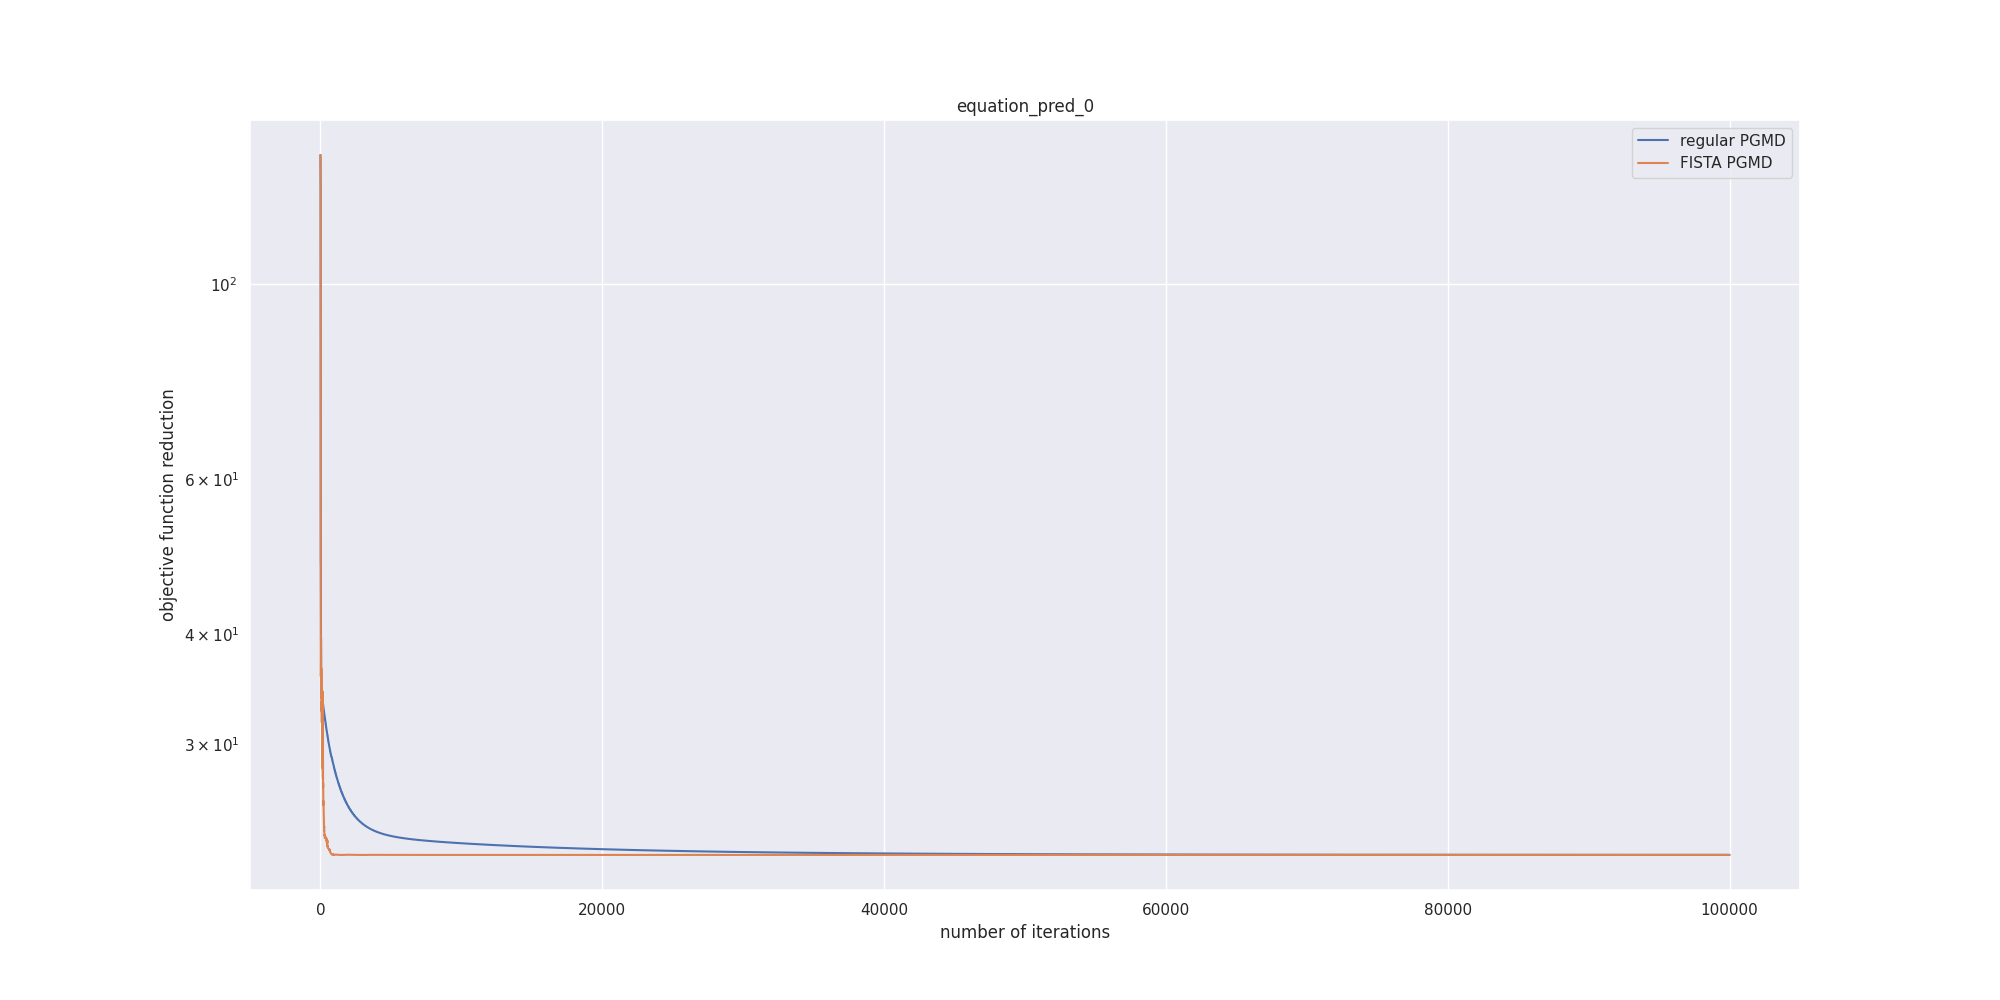
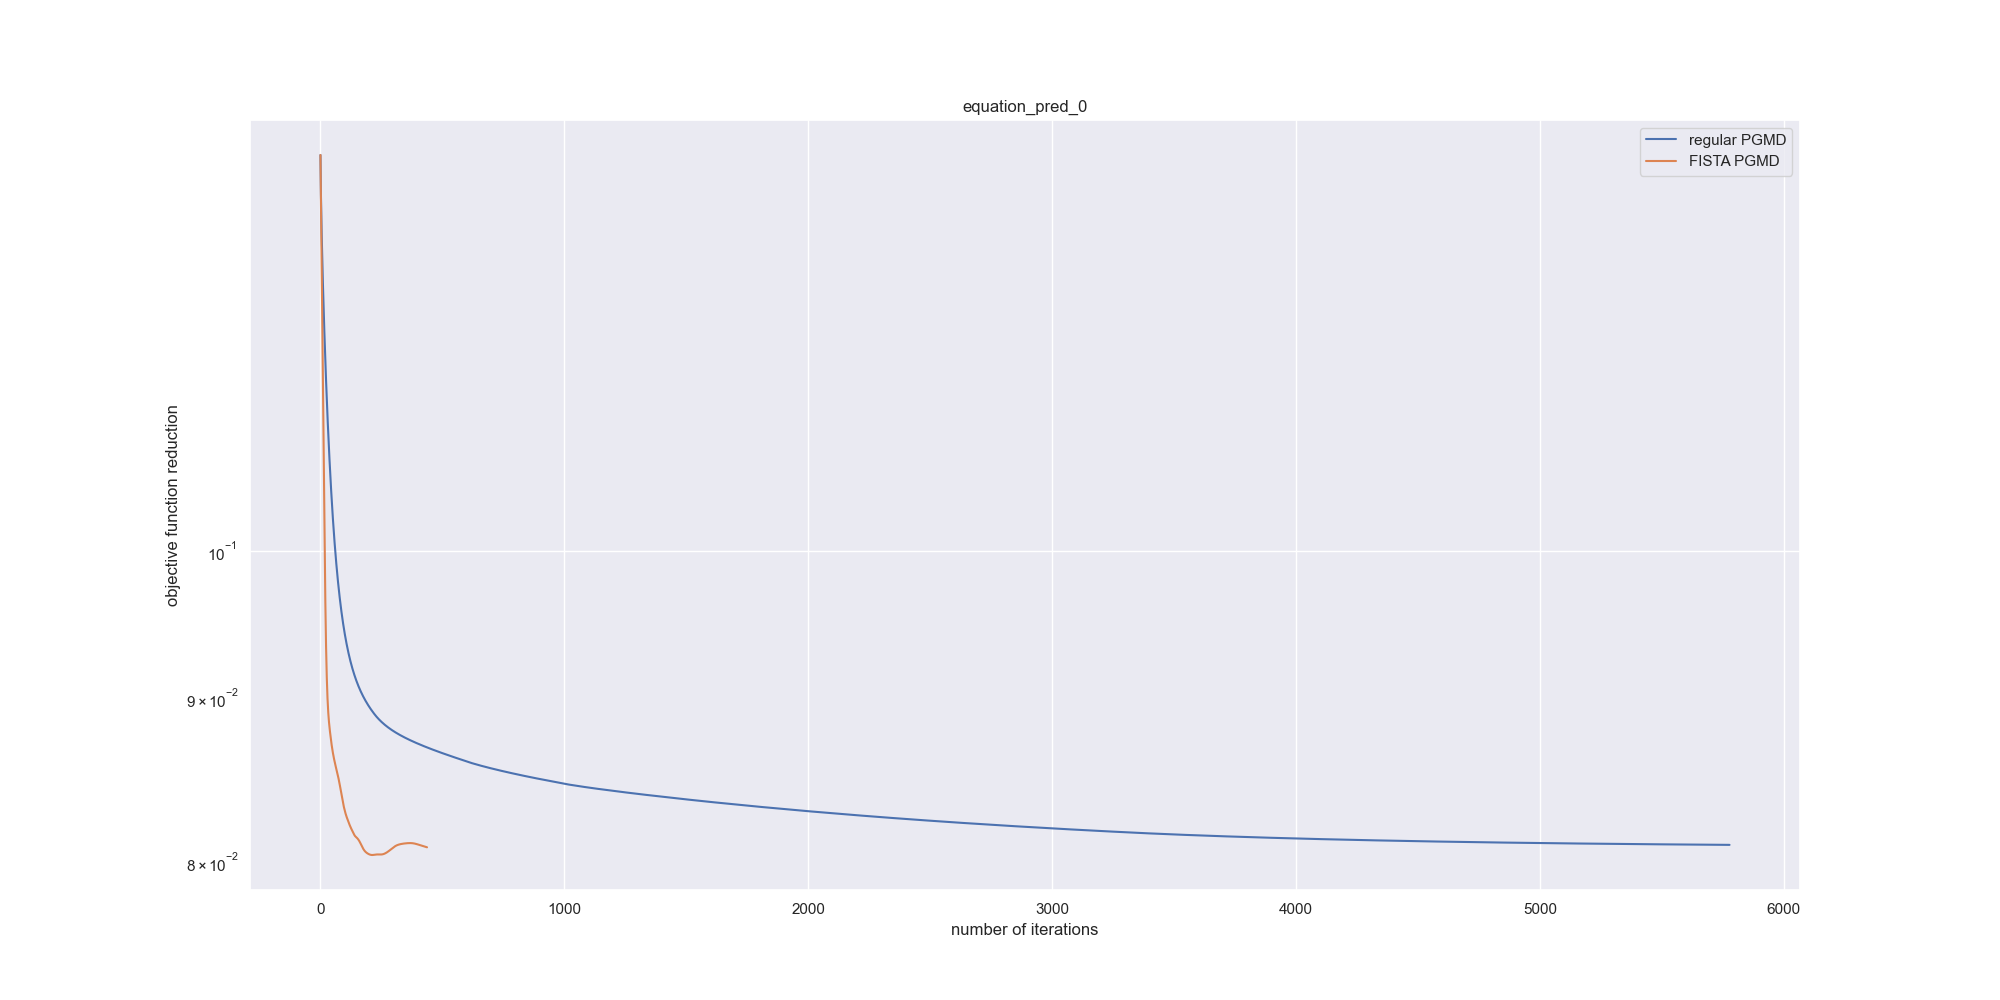
finished

diff --git a/main.py b/main.py
@@ -1,6 +1,7 @@
 # from BFGS import BFGS
 # from CG import CG
 from PGM import PGM_solver
+import pandas as pd
 from system import system_creator
 import numpy as np
 from mpl_toolkits import mplot3d
@@ -10,6 +11,11 @@ import seaborn as sns
 import time
 
 from scipy.integrate import solve_ivp
+
+
+def addlabels(x,y):
+    for i in range(len(x)):
+        plt.text(i,y[i],y[i])
 
 
 def f(A,x,b):
@@ -34,7 +40,7 @@ def lorentz_system(t,alpha,sigma,rho,beta):
     
 def main():
 
-    n_points =[100]
+    n_points =[100,200,500]
     hertz = 10
     for points in n_points:
         
@@ -49,9 +55,6 @@ def main():
         states=sol.y.T
         diff = np.zeros((states.shape))
         diff[1:,:] = np.diff(states,axis=0)/(1/hertz)        
-        # states,diff = lorentz_system(sigma,rho,beta,points)
-        #states,states_norm = normalize(states,return_norm=True)
-        # diff = np.nan_to_num(diff,nan=0,posinf=0,neginf=0)
         diff,diff_norm = normalize(diff,return_norm=True)
         
         
@@ -64,9 +67,12 @@ def main():
         
         #set parameters
         initial_guess = np.zeros((sys.lib.shape[1],states.shape[1]))
+        A2 = 2*np.matmul(sys.lib.T,sys.lib)/len(initial_guess)
+        A2 = np.nan_to_num(A2,nan=0,posinf=0,neginf=0)
+        lip=np.real((np.max(np.linalg.eig(A2)[0])))
         rho = 0.5
         lamb = 5e-3
-        maxiter = 1e5
+        maxiter = 1e4
         epsilon = 1e-4
 
         #create storage
@@ -75,34 +81,36 @@ def main():
         time_per_step = {"reg":{},"fista":{}}
         active_columns = {"reg":{},"fista":{}}
         opt_gap = {"reg":{},"fista":{}}
-        
+        indexes = np.arange(len(labels))+0.3
         sns.set()
         for col in range(3):
             pgm = PGM_solver(sys,initial_guess[:,col],diff[:,col])
-            solution['reg'][col] ,obj_func['reg'][col],time_per_step['reg'][col],active_columns['reg'][col],opt_gap['reg'][col]=pgm.PGMD(f,grad_f,g_prox,lamb,rho,maxiter,epsilon)
+            solution['reg'][col] ,obj_func['reg'][col],time_per_step['reg'][col],active_columns['reg'][col],opt_gap['reg'][col]=pgm.PGMD(f,grad_f,g_prox,lamb,rho,lip,maxiter,epsilon)
             print(solution['reg'][col])
             sparse_index = (np.nonzero(solution['reg'][col]))[0]
             for index in sparse_index:
                 print("sparse representation for equation %d found by PGMB :%s " %(col,labels[index]))
-            plt.figure()
-            plt.plot(sys.lib@solution['reg'][col],'o')
-            plt.plot(diff[:,col],'x')
-            plt.legend(["prediction","real"])
-            plt.show()
             print("average time per step by PGMD ",np.mean(time_per_step["reg"][col]))
             print("MSE found by PGMB :",obj_func['reg'][col][-1])
-            solution['fista'][col] ,obj_func['fista'][col],time_per_step['fista'][col],active_columns['fista'][col],opt_gap['fista'][col]=pgm.PGMD_FISTA(f,grad_f,g_prox,lamb,rho,maxiter,epsilon)
+            solution['fista'][col] ,obj_func['fista'][col],time_per_step['fista'][col],active_columns['fista'][col],opt_gap['fista'][col]=pgm.PGMD_FISTA(f,grad_f,g_prox,lamb,rho,lip,maxiter,epsilon)
             print(solution['fista'][col])
             sparse_index = (np.nonzero(solution['fista'][col]))[0]
             for index in sparse_index:
                 print("sparse representation for equation %d found by PGMB FISTA:%s " %(col,labels[index]))
             print("average time per step by PGMD FISTA",np.mean(time_per_step["fista"][col]))
             print("MSE found by PGMB FISTA:",obj_func['fista'][col][-1])
-            plt.figure()
-            plt.plot(sys.lib@solution['fista'][col],'o')
-            plt.plot(diff[:,col],'x')
-            plt.legend(["prediction","real"])
-            plt.show()
+            
+            plt.figure(figsize=(20,10))
+            plt.plot(np.multiply(sys.lib@solution['reg'][col],lib_norm[col]),'o')
+            plt.plot(np.multiply(sys.lib@solution['fista'][col],lib_norm[col]),'o')
+            plt.plot(np.multiply(diff[:,col],diff_norm[col]),'x')
+            
+            plt.ylabel("state_derivative_"+str(col))
+            plt.title("State %s Derivative Regression " %(str(col)))
+            plt.legend(["prediction PGMD","prediction FISTA","real"])
+            plt.savefig("states_"+str(col)+"_regression_"+str(points)+".png")
+            plt.close()
+            
             plt.figure(figsize=(20,10))
             plt.semilogy(obj_func['reg'][col])
             plt.semilogy(obj_func['fista'][col])
@@ -113,16 +121,21 @@ def main():
             plt.savefig("equation_pred_"+str(col)+str(points)+".png")
             plt.close()
 
-            plt.figure(figsize=(20,10))
-            active_columns['reg'][col]=[len(i) for i in active_columns['reg'][col]]
-            active_columns['reg'][col],bins=np.unique(active_columns['reg'][col],return_counts=True)
-            plt.bar(x=bins,height=active_columns['reg'][col])
-            active_columns['fista'][col]=[len(i) for i in active_columns['fista'][col]]
-            active_columns['fista'][col],bins=np.unique(active_columns['fista'][col],return_counts=True)
-            plt.bar(x=bins,height=active_columns['fista'][col])
+            df_reg = pd.DataFrame([labels,solution['reg'][col]]).T
+            df_reg.columns = ['label','value']
+            df_reg['solver']='pgmd'
+            df_reg.value = np.abs(df_reg.value)
+            lengths=np.arange(len(df_reg))
+            df_fista = pd.DataFrame([labels,solution['fista'][col]]).T
+            df_fista.columns =['label','value']
+            df_fista['solver']='pgmd-fista'
+            df_fista.value = np.abs(df_fista.value)
             
-            plt.ylabel('number of active terms')
-            plt.xlabel('number of iterations')
+            plt.figure(figsize=(20,10))
+            plt.bar(x=lengths,height=df_reg['value'],alpha=0.5,tick_label=df_reg['label'])
+            plt.bar(x=lengths,height=df_fista['value'],alpha=0.5,tick_label=df_reg['label'])
+            plt.ylabel('absolute value of active terms')
+            plt.xlabel('type of term')
             plt.title("equation_pred_"+str(col)+"active_terms")
             plt.legend(["regular PGMD","FISTA PGMD"])
             plt.savefig("active_terms_equation_pred_"+str(col)+str(points)+".png")

diff --git a/PGM.py b/PGM.py
@@ -15,29 +15,46 @@ class PGM_solver:
       gamma = 2/lip
       A=self.system.lib
       b=self.b
+      
       while np.linalg.norm(grad_f(A,g_prox(x-gamma*grad_f(A,x,b),lamb,gamma),b)-grad_f(A,x,b))>1/(2*gamma)*np.linalg.norm(g_prox(x-gamma*grad_f(A,x,b),lamb,gamma)-x):
          gamma = gamma*rho
          x = g_prox(x-gamma*grad_f(A,x,b),lamb,gamma)
          
       return gamma
+   
+   def backtracking_fista(self,x,grad_f,g_prox,lip,rho,lamb): 
+      
+      y = x
+      gamma = 2/lip
+      A=self.system.lib
+      b=self.b
+      xk_1 = x
+      tk_1 = 1
+      
+      while np.linalg.norm(grad_f(A,g_prox(y-gamma*grad_f(A,y,b),lamb,gamma),b)-grad_f(A,y,b))>1/(2*gamma)*np.linalg.norm(g_prox(y-gamma*grad_f(A,y,b),lamb,gamma)-y):
+         gamma = gamma*rho
+         xk = g_prox(y-gamma*grad_f(A,y,b),lamb,gamma)
+         tk = (1 + np.sqrt(1+4*tk_1**2))/2
+         y = xk + ((tk_1-1)/tk)*(xk-xk_1) 
+         tk_1 = tk 
+         xk_1 = xk
+         #print("fista gamma update")
+      
+      return gamma
          
-   def PGMD(self,f,grad_f,g_prox,lamb,rho,maxiter,epsilon):
+   def PGMD(self,f,grad_f,g_prox,lamb,rho,lip,maxiter,epsilon):
 
       x = self.initial_guess
       A = self.system.lib
       b = self.b
-      A2 = 2*np.matmul(A.T,A)/len(x)
-      A2 = np.nan_to_num(A2,nan=0,posinf=0,neginf=0)
-      lip = 1
-      #lip=np.real((np.max(np.linalg.eig(A2)[0])))
       gamma = 1
       obj_function=[]
       time_per_step = []
       active_columns = []
       optimality_gap = []
       
-      for k in range(int(maxiter)):
-      #while(1/gamma*np.linalg.norm(g_prox(x-gamma*grad_f(A,x,b),lamb,gamma)-x)) > epsilon:
+      #for k in range(int(maxiter)):
+      while(1/gamma*np.linalg.norm(g_prox(x-gamma*grad_f(A,x,b),lamb,gamma)-x)) > epsilon:
          current= time.time()
          gamma = self.backtracking(x,grad_f,g_prox,lip,rho,lamb)
          x = g_prox(x-gamma*grad_f(A,x,b),lamb,gamma)
@@ -46,31 +63,27 @@ class PGM_solver:
          time_per_step.append(final-current)
          active_columns.append(np.nonzero(x))
          optimality_gap.append(1/gamma*np.linalg.norm(g_prox(x-gamma*grad_f(A,x,b),lamb,gamma)-x)-epsilon)
-         print(optimality_gap[-1],"regular")   
+         #print(optimality_gap[-1],"regular")   
       return x,obj_function,time_per_step,active_columns,optimality_gap
    
 
-   def PGMD_FISTA(self,f,grad_f,g_prox,lamb,rho,maxiter,epsilon):
+   def PGMD_FISTA(self,f,grad_f,g_prox,lamb,rho,lip,maxiter,epsilon):
       y = self.initial_guess
       A = self.system.lib
       b = self.b
-      A2 = 2*np.matmul(A.T,A)/len(y)
-      A2 = np.nan_to_num(A2,nan=0,posinf=0,neginf=0)
-      lip = 1
-      #lip=np.real((np.max(np.linalg.eig(A2)[0])))
-      
       gamma = 1
-      obj_function=[]
       
-      xk_1 = y
+      xk_1 = self.initial_guess
       tk_1 = 1
+      
+      obj_function=[]
       time_per_step = []
       active_columns = []
       optimality_gap = []
-      for k in range(int(maxiter)):
-      #while(1/gamma*np.linalg.norm(g_prox(y-gamma*grad_f(A,y,b),lamb,gamma)-y)) > epsilon:
+      #for k in range(int(maxiter)):
+      while(1/gamma*np.linalg.norm(g_prox(y-gamma*grad_f(A,y,b),lamb,gamma)-y)) > epsilon:
          current= time.time()
-         gamma = self.backtracking(xk_1,grad_f,g_prox,lip,rho,lamb) 
+         gamma = self.backtracking_fista(y,grad_f,g_prox,lip,rho,lamb) 
          xk = g_prox(y-gamma*grad_f(A,y,b),lamb,gamma)
          tk = (1 + np.sqrt(1+4*tk_1**2))/2
          y = xk + ((tk_1-1)/tk)*(xk-xk_1) 
@@ -81,7 +94,7 @@ class PGM_solver:
          time_per_step.append(final-current)
          active_columns.append(np.nonzero(xk))
          optimality_gap.append(1/gamma*np.linalg.norm(g_prox(xk-gamma*grad_f(A,xk,b),lamb,gamma)-xk)-epsilon)
-         print(optimality_gap[-1],"fista")
-         #print(np.round(f(A,xk,b),3),np.nonzero(xk),np.round(1/gamma*np.linalg.norm(g_prox(y-gamma*grad_f(A,y,b),lamb,gamma)-y),3))
+         #print(optimality_gap[-1],"fista")
+         #print(np.round(f(A,y,b),3),np.round(1/gamma*np.linalg.norm(g_prox(y-gamma*grad_f(A,y,b),lamb,gamma)-y),3))
 
       return xk,obj_function,time_per_step,active_columns,optimality_gap
